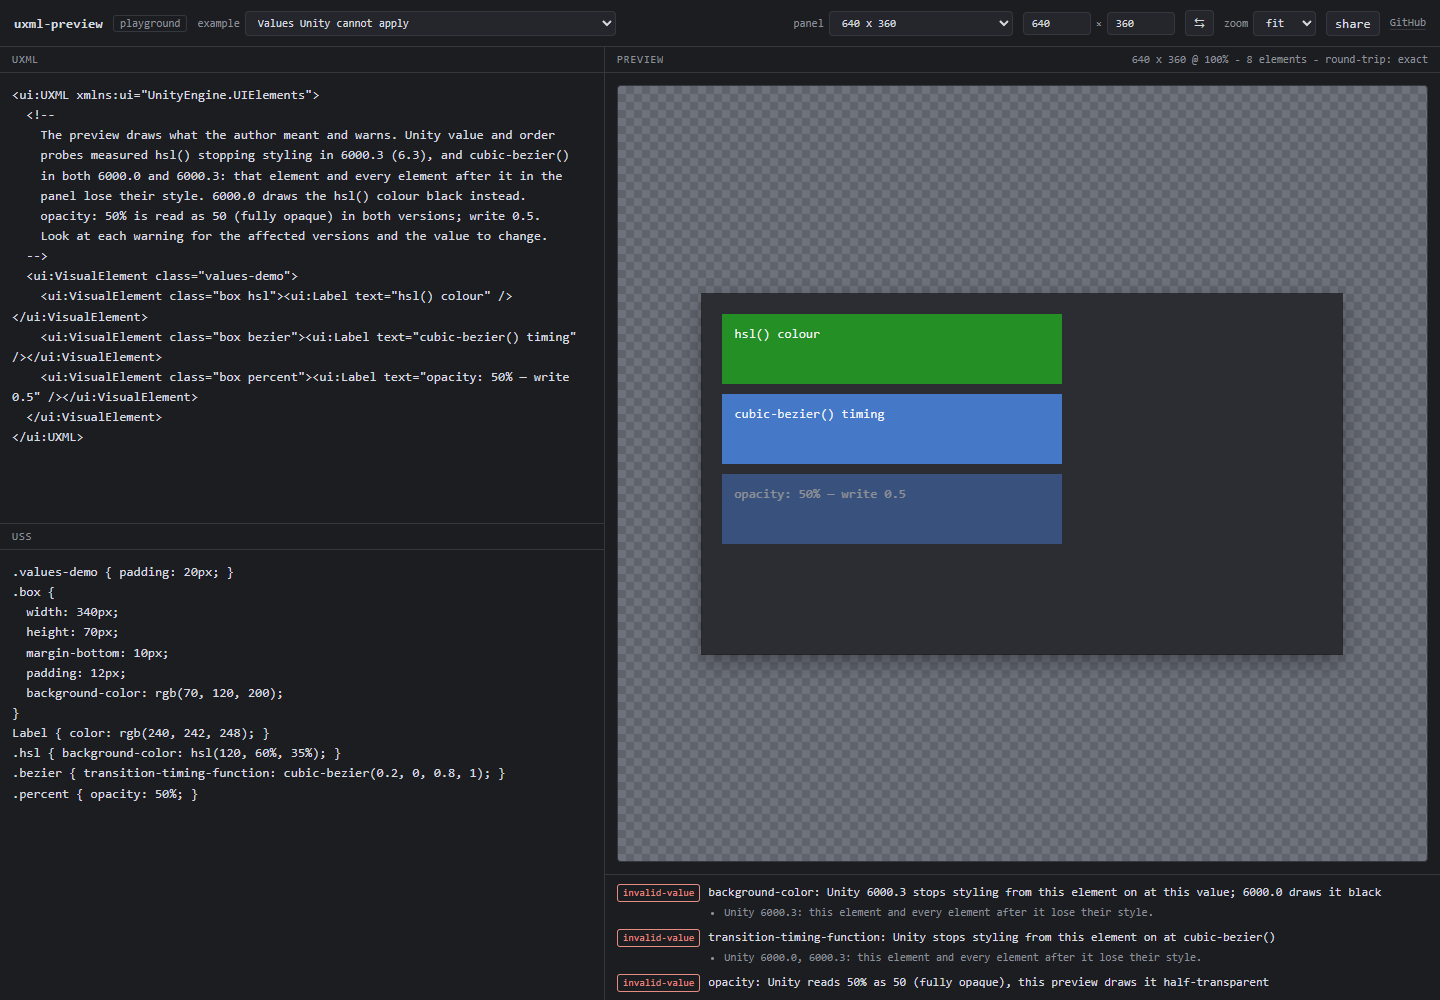
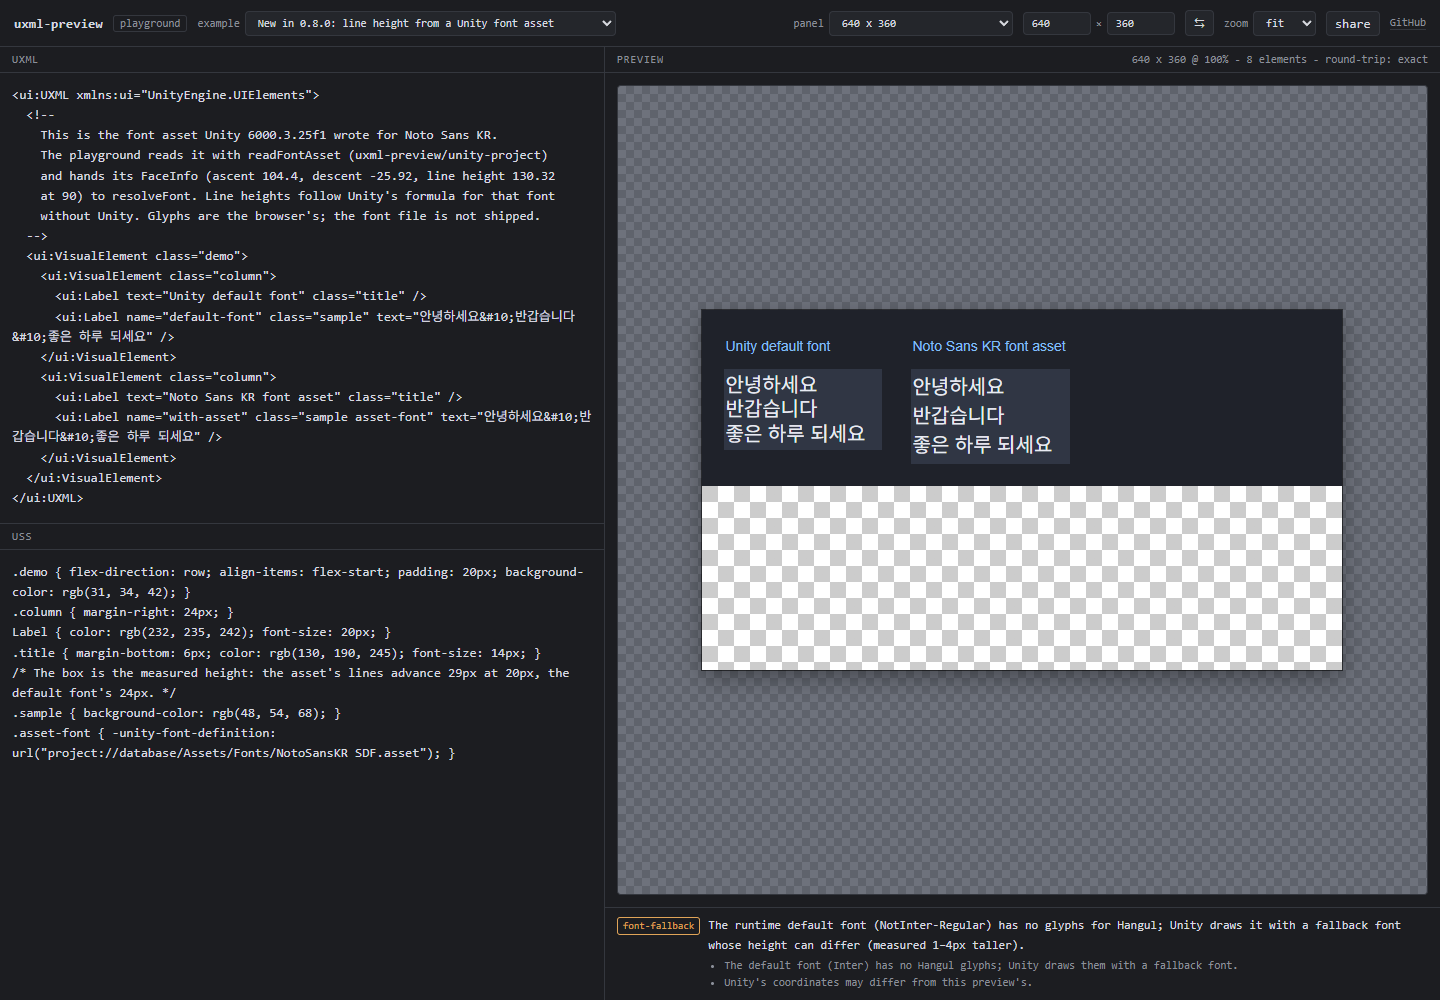
docs: promo GIF and playground screenshot for 0.8.0
- docs/media/promo-0.8.0.gif: the 0.7.0 storyboard kept (code lines
  land in the live settings screen, accent recolor, row-reverse, end
  card). Every piece re-rendered with the 0.8.0 library in Chrome
  (capture2.mjs; 1-3px text widths moved with the browser, no
  warnings), version marks 0.8.0, and the end card names "reads Unity
  font assets". Built in EffectCraft from the same generated script
  (Documents/uxml-preview-promo-0.8.0), 223 frames at 20 fps, 3.8 MB;
  verify.py: worst frame 157 pixels off by more than 24, max 38.
  promo-0.7.0.gif stays: earlier release notes may link it.
- docs/media/playground.png: the playground on the new font-asset
  example, with its font-fallback warning.
- progress: this round.

diff --git a/docs/progress.md b/docs/progress.md
@@ -4,6 +4,8 @@
 
 ## 현재 위치
 
+**0.8.0 문서·놀이터·홍보 GIF (2026-11-18, 같은 브랜치, 푸시, 머지 안 함).** README 네 언어에 0.8.0 줄·`readFontAsset` 예시·새 GIF 경로, supported·accuracy·uss-vs-css(영·한)·CONTRIBUTING 갱신(accuracy의 `tf-trail` 미리보기 42 → Inter로 다시 재 43). 놀이터 첫 두 예제를 0.8.0으로(공백·생성기, Unity 글꼴 에셋으로 줄 높이 — 픽스처를 `?raw`로 싣고 `readFontAsset`으로 resolveFont), 함정 예제 둘을 하나로. `KNOWN_FONT_ASSET_FORMATS`를 Node 의존이 없는 `font-asset.ts`로 옮기고 index에서 다시 내보냄. 홍보 GIF `docs/media/promo-0.8.0.gif`(EffectCraft, `Documents/uxml-preview-promo-0.8.0`) — 0.7.0 연출 유지, 0.8.0 라이브러리로 조각을 다시 찍음(현재 Chrome에서 글 폭 1~3px 차이), 버전 표기·끝 카드("reads Unity font assets"). `playground.png` 새로 찍음. `promo-0.7.0.gif`는 지난 릴리스 노트가 가리킬 수 있어 남김.
+
 **0.8.0 measure-real 마감 (2026-11-18 밤, 같은 브랜치, 푸시, 머지 안 함).** 사람 결정(방법 1): "상자 안에 그림"은 잉크만 잰다 — 공백(줄 끝에 걸린 것 포함)은 잉크가 아니다. 허용치 1px 그대로. `pnpm test:text` 통과(run 표 변화 없음, paint 39/39, paint-r15 52/52, paint-spaces 18/18, measure-spaces 39/39, measure-real 92/92), `vitest` 1612 통과 · 1 건너뜀, build 통과. 변이: 공백 다시 셈 → ko100·te10 실패. ko100 상자 3px 좁힘은 실패하지 않음(잉크 여유 2.4·3.0px, 허용 1px 안), 4px에서 실패.
 
 **0.8.0 독립 검토 반영 (2026-11-18 저녁, 같은 브랜치, 푸시, 머지 안 함).** 리더: LF에서만 줄이 끝난다(U+2028·U+2029·홀로 있는 CR은 값), Unity 형태만 받는 명확화 넷. 탭 회귀(Standard를 CSS pre로 그려 탭 정지가 상자 밖으로) → 탭은 공백 하나로 그림. `paint-spaces` S3(Unity 글꼴 아님)·S5(못 찾으면 바깥 필드) 결함 수정. `measure-real` `KNOWN_R1W`에서 `ko100`·`te10` 뺌(사람 승인). 그 둘의 "상자 안에 그림" 1.1·1.4px는 글자가 아니라 줄 끝에 걸린 공백이라 멈추고 보고 — 사람 결정 대기. 검토의 TextField 1px 차이는 Inter로 재현 안 됨.
